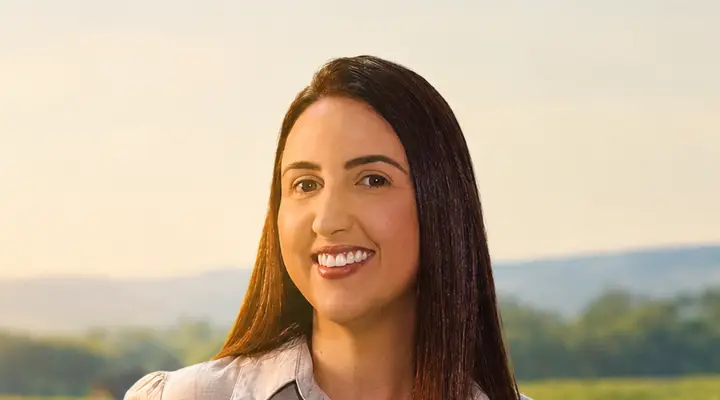
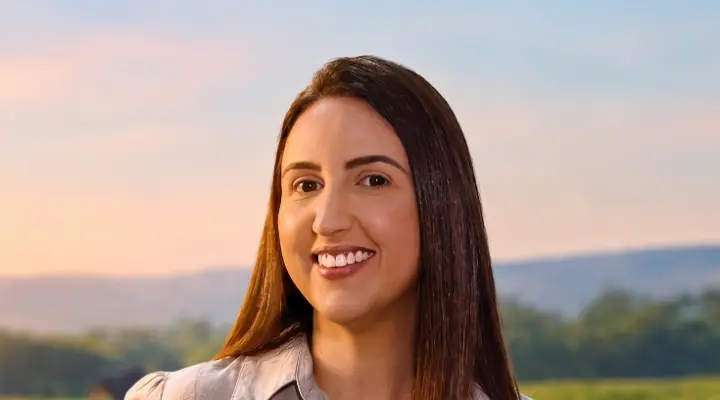
Hero com foto em qualidade maior e atalhos mais à esquerda
Troca o fundo da hero pela arte de 2728x1536 (versões 2000 e 1280 no
desktop, recorte 720x400 no celular) e remove as versões 1671/1100.
Atalhos da navbar centralizados entre a marca e o botão.

diff --git a/index.html b/index.html
@@ -24,7 +24,7 @@
 
 <!-- Foto da hero: baixa antes de tudo (é o maior elemento da primeira tela). Celular recebe só o recorte do rosto. -->
 <link rel="preload" as="image" href="img/kelly-fundo-m.webp" type="image/webp" media="(max-width: 899px)" fetchpriority="high">
-<link rel="preload" as="image" imagesrcset="img/kelly-fundo-1100.webp 1100w, img/kelly-fundo-1671.webp 1671w" imagesizes="100vw" type="image/webp" media="(min-width: 900px)" fetchpriority="high">
+<link rel="preload" as="image" imagesrcset="img/kelly-fundo-1280.webp 1280w, img/kelly-fundo-2000.webp 2000w" imagesizes="100vw" type="image/webp" media="(min-width: 900px)" fetchpriority="high">
 
 <!-- Fontes: carregadas sem bloquear a renderização. Fallbacks com métrica ajustada no CSS abaixo evitam salto de layout. -->
 <link rel="preconnect" href="https://fonts.googleapis.com">
@@ -108,7 +108,7 @@ a{color:inherit;text-underline-offset:.2em}
 }
 /* Atalhos (navbar): Fraunces, a mesma serifada dos títulos, em tinta sobre o céu claro. Sublinhado dourado no hover. */
 @media (min-width:1024px){
-  .topo__nav{display:flex;align-items:center;gap:clamp(1.25rem,2.2vw,2.25rem);margin-left:auto}
+  .topo__nav{display:flex;flex:1;justify-content:center;align-items:center;gap:clamp(1.25rem,2.2vw,2.25rem)}
   .topo__nav a{position:relative;padding-block:.5rem;font:400 1.0625rem/1.2 var(--serif);letter-spacing:.005em;color:var(--ink);text-decoration:none}
   .topo__nav a::after{content:"";position:absolute;left:0;right:0;bottom:.2rem;height:1px;background:var(--gold-deep);transform:scaleX(0);transform-origin:left;transition:transform .3s var(--ease-out)}
   .topo__nav a:hover::after,.topo__nav a:focus-visible::after{transform:scaleX(1)}
@@ -159,9 +159,9 @@ a{color:inherit;text-underline-offset:.2em}
 
 @media (min-width:900px){
   /* Desktop: a foto ocupa o fundo inteiro da hero, sem véu nem degradê, com a Kelly à direita e o texto por cima.
-     A altura da hero segue a proporção da foto (1671x941), limitada à altura da tela, para ela aparecer quase inteira.
+     A altura da hero segue a proporção da foto (2000x1126), limitada à altura da tela, para ela aparecer quase inteira.
      Legibilidade: só um halo creme suave nas letras, sem cobrir a imagem. */
-  .hero{display:flex;align-items:center;min-height:min(calc(100vw * 941 / 1671),100vh);padding-block:9.5rem 6rem;overflow:hidden}
+  .hero{display:flex;align-items:center;min-height:min(calc(100vw * 1126 / 2000),100vh);padding-block:9.5rem 6rem;overflow:hidden}
   .hero__grid{width:100%;margin-top:0}
   .hero__texto{max-width:min(34rem,48%);text-shadow:0 0 .3rem rgba(244,237,227,.95),0 0 1rem rgba(244,237,227,.7)}
   .hero__corpo,.hero__texto .cta-nota,.hero__oab{color:var(--ink)}
@@ -224,8 +224,8 @@ a{color:inherit;text-underline-offset:.2em}
     <div class="hero__foto">
       <picture>
         <source media="(max-width: 899px)" srcset="img/kelly-fundo-m.webp" width="720" height="400">
-        <img src="img/kelly-fundo-1100.webp" srcset="img/kelly-fundo-1100.webp 1100w, img/kelly-fundo-1671.webp 1671w" sizes="100vw"
-             width="1671" height="941" alt="Kelly Ferreira, advogada, num campo de lavoura" fetchpriority="high" decoding="async">
+        <img src="img/kelly-fundo-1280.webp" srcset="img/kelly-fundo-1280.webp 1280w, img/kelly-fundo-2000.webp 2000w" sizes="100vw"
+             width="2000" height="1126" alt="Kelly Ferreira, advogada, num campo de lavoura" fetchpriority="high" decoding="async">
       </picture>
     </div>
     <div class="wrap hero__grid">

diff --git a/README.md b/README.md
@@ -10,8 +10,8 @@ styles.css                   estilos abaixo da dobra
 main.js                      formulário -> planilha, UTMs, Meta Pixel, barra fixa, carta, Lenis, FAQ
 integracao/google-sheets.gs  script do Google que grava os cadastros na planilha
 politica-de-privacidade.html rascunho LGPD (revisar antes de publicar)
-img/kelly-fundo-1671.webp    fundo da hero, desktop grande (1671×941, 63KB)
-img/kelly-fundo-1100.webp    fundo da hero, desktop (1100×619, 34KB)
+img/kelly-fundo-2000.webp    fundo da hero, desktop grande (2000×1126, 81KB)
+img/kelly-fundo-1280.webp    fundo da hero, desktop (1280×721, 40KB)
 img/kelly-fundo-m.webp       recorte do rosto para o celular (720×400, 11KB)
 img/kelly.webp               retrato da seção "Quem vai acompanhar o seu caso" (800×1000, 37KB)
 img/kelly-hero.webp          versão anterior da hero (arte com fundo creme), fora de uso
@@ -129,15 +129,15 @@ Se mudar o título ou o corpo do hero, confira em 360×640 se o botão "Pedir co
 
 ## Foto da hero
 
-Arte enviada pelo escritório (1671×941): a Kelly num campo de lavoura, com trabalhadores desfocados ao fundo. Ela ocupa o fundo inteiro da hero (`img/kelly-fundo-*.webp`).
+Arte enviada pelo escritório (2728×1536): a Kelly num campo de lavoura ao nascer do sol, com trabalhadores desfocados ao fundo. Ela ocupa o fundo inteiro da hero (`img/kelly-fundo-*.webp`).
 - **Celular:** faixa no topo da hero, com o título subindo sobre o fim esmaecido da foto.
 - **Desktop:** a foto cobre o fundo inteiro da hero, sem véu nem degradê, com a Kelly à direita e o texto por cima. A altura da hero segue a proporção da foto, limitada à altura da tela, para ela aparecer quase inteira. Para a leitura, o texto tem só um halo creme justo às letras, e o corpo, a nota e a linha da OAB usam a cor do título. A base da hero é um corte inclinado (SVG `.hero__corte`), com uma faixa dourada `#A8894F` entre a foto e o bege da seção seguinte. No celular o corte não aparece, porque lá a foto já termina esmaecendo.
 - **Entrada:** ao carregar, a foto "assenta" devagar (escala e leve subida, 1,6s). Só usa transform, então não atrasa o LCP, e fica desligada para quem pede menos movimento.
 
-**Resolução:** a arte tem 1671px de largura. Em telas de até ~1700px ela aparece sem ampliação; acima disso, fica um pouco suave.
+**Resolução:** a arte original tem 2728px de largura; o site usa versões de 1280 e 2000px (o navegador escolhe pela largura da tela) e fica nítido em qualquer monitor comum.
 
 Para trocar:
-1. Gere `kelly-fundo-1671.webp` e `kelly-fundo-1100.webp` (a arte inteira) e `kelly-fundo-m.webp` (recorte 720×400 do rosto), e atualize `width`/`height` no `<img>`.
+1. Gere `kelly-fundo-2000.webp` e `kelly-fundo-1280.webp` (a arte inteira) e `kelly-fundo-m.webp` (recorte 720×400 do rosto), e atualize `width`/`height` no `<img>`.
 2. Ajuste `--foto-pos-mobile` e `--foto-pos-desktop` no CSS do `<head>`.
 3. Confira em 360×640 se o botão da hero continua na primeira tela.
 
@@ -194,7 +194,7 @@ Sempre que mudar o `styles.css`, aumente o número em `styles.css?v=2` (no `inde
   - `#FFFFFF` branco, no painel do formulário, na carta e na faixa dos passos.
 - **Contraste:** o dourado claro dá só 2,8:1 sobre o creme, por isso nunca aparece em texto.
 - **Tipos:** Fraunces 400 e itálico (títulos, falas, numerais) e Poppins 400/500 (texto, formulário, botões). São 4 arquivos de fonte.
-- **Cabeçalho:** transparente sobre o céu da foto da hero. No desktop fica fixo e, ao rolar, ganha fundo creme translúcido (`.is-solido`, via `main.js`). A partir de 1024px mostra os atalhos "No que ajuda", "Como funciona", "Quem é a Kelly" e "Dúvidas" (em Fraunces, tinta sobre o céu, sublinhado dourado no hover). No celular, só a marca e "Pedir contato", por cima da faixa da foto. As âncoras param abaixo do cabeçalho pelo `scroll-padding-top` do CSS, que o Lenis também respeita.
+- **Cabeçalho:** transparente sobre o céu da foto da hero. No desktop fica fixo e, ao rolar, ganha fundo creme translúcido (`.is-solido`, via `main.js`). A partir de 1024px mostra os atalhos "No que ajuda", "Como funciona", "Quem é a Kelly" e "Dúvidas", centralizados no espaço entre a marca e o botão (em Fraunces, tinta sobre o céu, sublinhado dourado no hover). No celular, só a marca e "Pedir contato", por cima da faixa da foto. As âncoras param abaixo do cabeçalho pelo `scroll-padding-top` do CSS, que o Lenis também respeita.
 - **Estrutura:** hero com texto e botão à esquerda e a foto da Kelly à direita (no celular, a foto vem por cima do título). Depois disso, todas as seções seguem a mesma grade, com o título na coluna esquerda (1/3) e o conteúdo na direita (2/3). O formulário fecha a página, no fechamento.
 - **Assinatura:** a carta de decisão do INSS com o motivo circulado e traduzido, logo depois das falas de reconhecimento.
 
